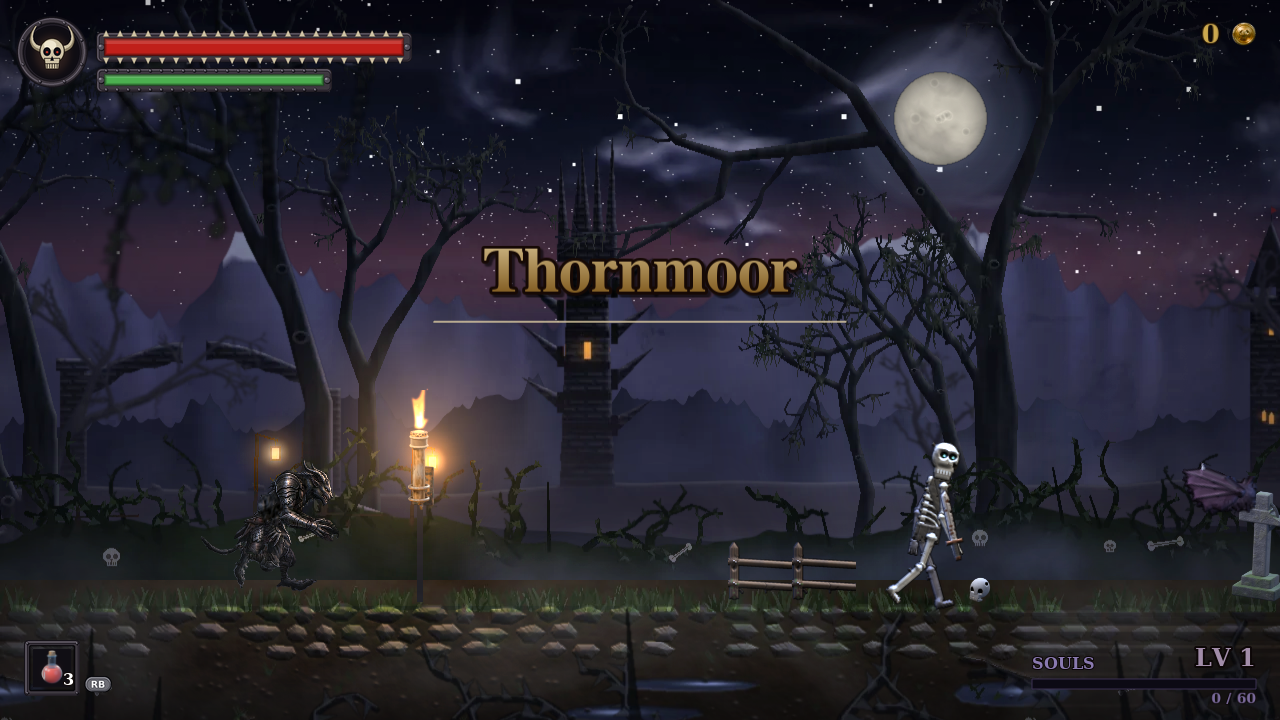
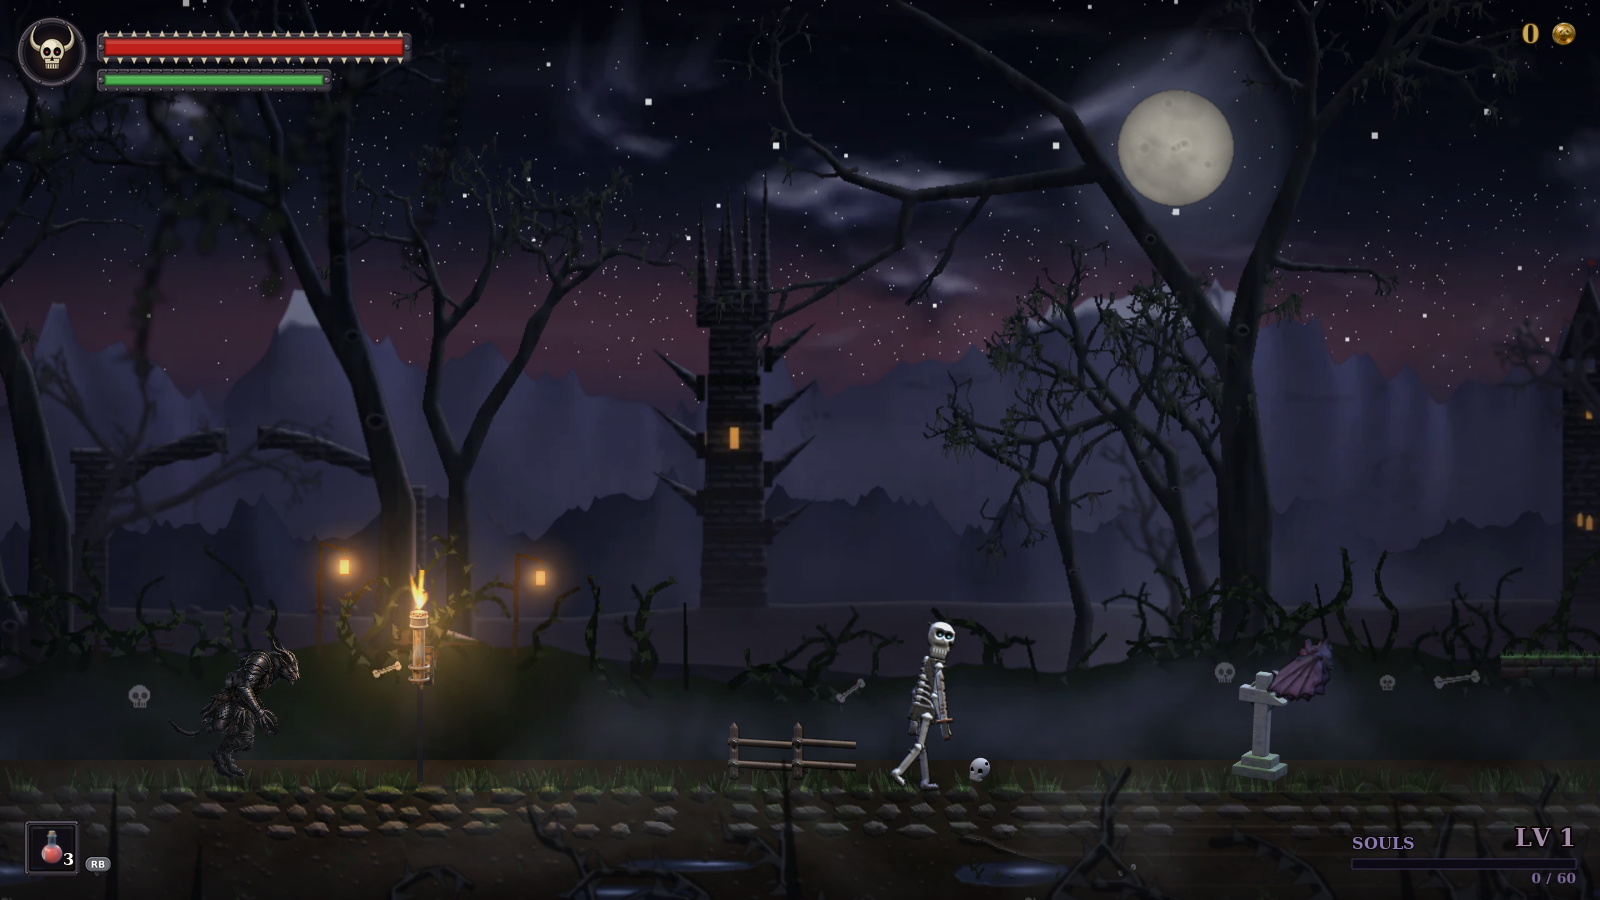
Zoom out: render at 1600x900 with the world at design scale (characters 20% smaller on screen)
Claude-Session: https://claude.ai/code/session_01TNKtPaCGy4QsiK2M9UMF5D

diff --git a/src/systems/Parallax.js b/src/systems/Parallax.js
@@ -1,4 +1,4 @@
-import { WIDTH, HEIGHT, DEPTH } from '../config.js';
+import { WIDTH, HEIGHT, DEPTH, VIEW_TOP, BG_SCALE } from '../config.js';
 
 // Builds the multi-layer parallax backdrop for a zone from assets/bg/layers.json.
 // Every layer is a screen-fixed TileSprite whose tilePosition follows the camera at its own
@@ -16,13 +16,19 @@ export default class Parallax {
       const key = `bg_${zoneKey}_${L.key}`;
       const depth = L.key === 'foreground' ? DEPTH.foreground : DEPTH.bgFar + i;
       if (L.fixed) {
-        const img = scene.add.image(L.x + L.w / 2, L.y + L.h / 2, key).setScrollFactor(0).setDepth(depth);
+        const img = scene.add.image((L.x + L.w / 2) * BG_SCALE, (L.y + L.h / 2) * BG_SCALE, key).setScrollFactor(0).setDepth(depth).setScale(BG_SCALE);
         this.layers.push({ obj: img, meta: L, fixed: true });
         // gentle pulse on the moon glow
         scene.tweens.add({ targets: img, alpha: 0.9, duration: 4000, yoyo: true, repeat: -1, ease: 'Sine.easeInOut' });
         return;
       }
-      const ts = scene.add.tileSprite(0, L.y + (L.key === 'foreground' ? 50 : 0), WIDTH, L.h, key).setOrigin(0, 0).setScrollFactor(0).setDepth(depth);
+      // The ground strip stays at world scale, anchored to the physics ground line; every other layer is
+      // scaled up to fill the taller view (its ground line lands close to the world ground).
+      const isGround = L.key === 'ground';
+      const y = isGround ? meta.ground_y - 20 - VIEW_TOP : (L.y + (L.key === 'foreground' ? 50 : 0)) * BG_SCALE;
+      const h = isGround ? L.h : HEIGHT;
+      const ts = scene.add.tileSprite(0, y, WIDTH, h, key).setOrigin(0, 0).setScrollFactor(0).setDepth(depth);
+      if (!isGround) ts.setTileScale(BG_SCALE, BG_SCALE);
       if (L.key === 'foreground') ts.setAlpha(0.8);
       if ((L.key === 'ground' || L.key === 'hedge') && scene.lighting) scene.lighting.lit(ts);
       this.layers.push({ obj: ts, meta: L, fixed: false });
@@ -30,9 +36,10 @@ export default class Parallax {
 
     // Fog banks: one behind the hedge, one in front of the ground.
     const fogColor = Phaser.Display.Color.HexStringToColor(meta.fog || '#2c2f3d').color;
+    const groundScreen = meta.ground_y - VIEW_TOP;
     this.fogs = [
-      scene.add.tileSprite(0, meta.ground_y - 170, WIDTH, 256, 'fog').setOrigin(0).setScrollFactor(0).setDepth(DEPTH.bgFar + 5.5).setAlpha(0.22).setTint(fogColor | 0x404040),
-      scene.add.tileSprite(0, meta.ground_y - 90, WIDTH, 256, 'fog').setOrigin(0).setScrollFactor(0).setDepth(DEPTH.fx + 1).setAlpha(0.16),
+      scene.add.tileSprite(0, groundScreen - 170, WIDTH, 256, 'fog').setOrigin(0).setScrollFactor(0).setDepth(DEPTH.bgFar + 5.5).setAlpha(0.22).setTint(fogColor | 0x404040),
+      scene.add.tileSprite(0, groundScreen - 90, WIDTH, 256, 'fog').setOrigin(0).setScrollFactor(0).setDepth(DEPTH.fx + 1).setAlpha(0.16),
     ];
 
     // Drifting embers / spores.
@@ -48,7 +55,7 @@ export default class Parallax {
     this.buildWeather(meta);
 
     // Vignette on top of the world (under the HUD scene).
-    this.vignette = scene.add.image(WIDTH / 2, HEIGHT / 2, 'ui_vignette').setScrollFactor(0).setDepth(DEPTH.hud - 1).setAlpha(0.5);
+    this.vignette = scene.add.image(WIDTH / 2, HEIGHT / 2, 'ui_vignette').setScrollFactor(0).setDepth(DEPTH.hud - 1).setAlpha(0.5).setDisplaySize(WIDTH, HEIGHT);
     this.cam = cam;
   }
 
@@ -79,9 +86,9 @@ export default class Parallax {
     this.nextLightning = 6000 + Math.random() * 10000;
     this.shafts = [];
     if (meta.shafts && scene.textures.exists('bg_lightshaft')) {
-      const m = meta.moon || { x: 900, y: 120 };
+      const m = { x: (meta.moon || { x: 900 }).x * BG_SCALE, y: (meta.moon || { y: 120 }).y * BG_SCALE };
       for (let i = 0; i < 4; i++) {
-        const img = scene.add.image(m.x + (i - 1.5) * 90, m.y + 300, 'bg_lightshaft').setScrollFactor(0).setDepth(DEPTH.bgFar + 4.5)
+        const img = scene.add.image(m.x + (i - 1.5) * 90, m.y + 300 * BG_SCALE, 'bg_lightshaft').setScrollFactor(0).setDepth(DEPTH.bgFar + 4.5)
           .setBlendMode('ADD').setAlpha(0.09 + i * 0.02).setAngle(-18 + i * 12).setScale(1.6, 1.4).setTint(0xc0d0ff);
         this.shafts.push({ img, phase: i * 1.3 });
       }
@@ -113,15 +120,14 @@ export default class Parallax {
     }
     for (const s of this.shafts) s.img.setAlpha(0.07 + 0.05 * Math.sin(this.time / 1700 + s.phase)).setAngle(s.img.angle + Math.sin(this.time / 2600 + s.phase) * 0.004);
     const sx = this.cam.scrollX;
-    const sy = this.cam.scrollY;
     for (const L of this.layers) {
       if (L.fixed) continue;
       const m = L.meta;
       let drift = 0;
       if (m.key === 'sky') drift = this.time * 0.004;        // clouds roll slowly
-      L.obj.tilePositionX = sx * m.scroll + drift;
-      // vertical parallax is much weaker so layers stay anchored to the ground line
-      L.obj.y = m.y + (m.key === 'foreground' ? 50 : 0) - sy * Math.min(1, m.scroll);
+      // tilePosition is in texture pixels; scaled layers move at the same on-screen rate as before
+      const k = m.key === 'ground' ? 1 : 1 / BG_SCALE;
+      L.obj.tilePositionX = (sx * m.scroll + drift) * k;
     }
     this.fogs[0].tilePositionX = sx * 0.7 + this.time * 0.012;
     this.fogs[1].tilePositionX = sx * 1.05 - this.time * 0.02;

diff --git a/src/scenes/Game.js b/src/scenes/Game.js
@@ -1,4 +1,4 @@
-import { WIDTH, HEIGHT, PLAYER, DEPTH } from '../config.js';
+import { WIDTH, HEIGHT, PLAYER, DEPTH, VIEW_TOP, BG_SCALE } from '../config.js';
 import { getInput, promptFor } from '../input/Input.js';
 import Parallax from '../systems/Parallax.js';
 import Combat from '../systems/Combat.js';
@@ -49,7 +49,8 @@ export default class GameScene extends Phaser.Scene {
     this.physics.world.setBounds(0, -2000, zone.width, HEIGHT + 2000);
     const bgMeta = this.cache.json.get('bg_layers')[this.zoneKey];
     this.groundY = bgMeta.ground_y;
-    this.lighting = new Lighting(this, { ...bgMeta, ambient: zone.ambient, moonLight: zone.moonLight });
+    const moonScreen = { x: bgMeta.moon.x * BG_SCALE, y: bgMeta.moon.y * BG_SCALE };
+    this.lighting = new Lighting(this, { ...bgMeta, moon: moonScreen, ambient: zone.ambient, moonLight: zone.moonLight });
     this.parallax = new Parallax(this, this.zoneKey, { ...bgMeta, weather: zone.weather, lightning: zone.lightning, shafts: zone.shafts });
 
     this.ground = this.physics.add.staticGroup();
@@ -76,7 +77,7 @@ export default class GameScene extends Phaser.Scene {
     this.boss = null;
 
     const cam = this.cameras.main;
-    cam.setBounds(0, 0, zone.width, HEIGHT);
+    cam.setBounds(0, VIEW_TOP, zone.width, HEIGHT);
     cam.startFollow(this.player.body_, true, 0.1, 0.1, 0, 120);
     cam.setDeadzone(120, 60);
     cam.fadeIn(600, 0, 0, 0);
@@ -231,7 +232,7 @@ export default class GameScene extends Phaser.Scene {
     const [a, b] = this.bossDef.arena;
     this.platforms.add(this.add.rectangle(a - 10, this.groundY - 400, 20, 400, 0, 0).setOrigin(0.5, 0));
     this.platforms.add(this.add.rectangle(b + 10, this.groundY - 400, 20, 400, 0, 0).setOrigin(0.5, 0));
-    this.cameras.main.setBounds(a - 140, 0, (b - a) + 280, HEIGHT);
+    this.cameras.main.setBounds(a - 140, VIEW_TOP, (b - a) + 280, HEIGHT);
   }
 
   onEnemyKilled(enemy, info) {

diff --git a/src/scenes/Title.js b/src/scenes/Title.js
@@ -1,4 +1,4 @@
-import { WIDTH, HEIGHT, DEPTH } from '../config.js';
+import { VIEW_TOP, WIDTH, HEIGHT, DEPTH } from '../config.js';
 import { getInput, promptFor } from '../input/Input.js';
 import Parallax from '../systems/Parallax.js';
 import AudioSystem from '../systems/Audio.js';
@@ -49,6 +49,7 @@ export default class TitleScene extends Phaser.Scene {
     const meta = this.cache.json.get('bg_layers');
     this.parallax = meta && meta.thornmoor ? new Parallax(this, 'thornmoor', meta.thornmoor) : null;
     this.cameras.main.scrollX = 0;
+    this.cameras.main.scrollY = VIEW_TOP;   // same vertical framing as the Game scene
     // dark wash so the title reads over the scenery
     this.add.rectangle(0, 0, WIDTH, HEIGHT, 0x05060a, 0.35).setOrigin(0).setScrollFactor(0).setDepth(UI - 2);
 

diff --git a/src/config.js b/src/config.js
@@ -1,6 +1,11 @@
 // Global tuning constants. Everything that defines "feel" lives here so it can be tuned in one place.
-export const WIDTH = 1280;
-export const HEIGHT = 720;
+export const WIDTH = 1600;
+export const HEIGHT = 900;
+// The world keeps the original 1280x720 design scale (ground at y=600); the larger canvas shows
+// more of it, so characters appear 20% smaller. VIEW_TOP is the world y at the top of the screen.
+export const DESIGN_HEIGHT = 720;
+export const VIEW_TOP = DESIGN_HEIGHT - HEIGHT;
+export const BG_SCALE = HEIGHT / DESIGN_HEIGHT;   // screen-fixed parallax layers are scaled to fill the taller view
 
 export const GRAVITY = 2400;
 

diff --git a/PLAN.md b/PLAN.md
@@ -24,7 +24,7 @@ local files; no network requests at runtime.
 - 7–8 parallax layers per zone: sky + moon + clouds, far mountains, far castle/ruins
   silhouettes, dead trees, thorn hedges, ground/path, foreground thorn overlay (in front of
   the player), plus drifting fog and ember particles.
-- Internal resolution 1280×720, scaled to fit the window, smooth (painterly, not pixel art).
+- Internal resolution 1600×900 scaled to fit the window; the world keeps its 1280×720 design scale so the camera shows more of it and characters stay small on screen (painterly, not pixel art).
 - HUD: red health bar and green stamina bar top-left under a beast emblem; gold top-right;
   souls (score/XP) bottom-right; item slot bottom-left.
 
